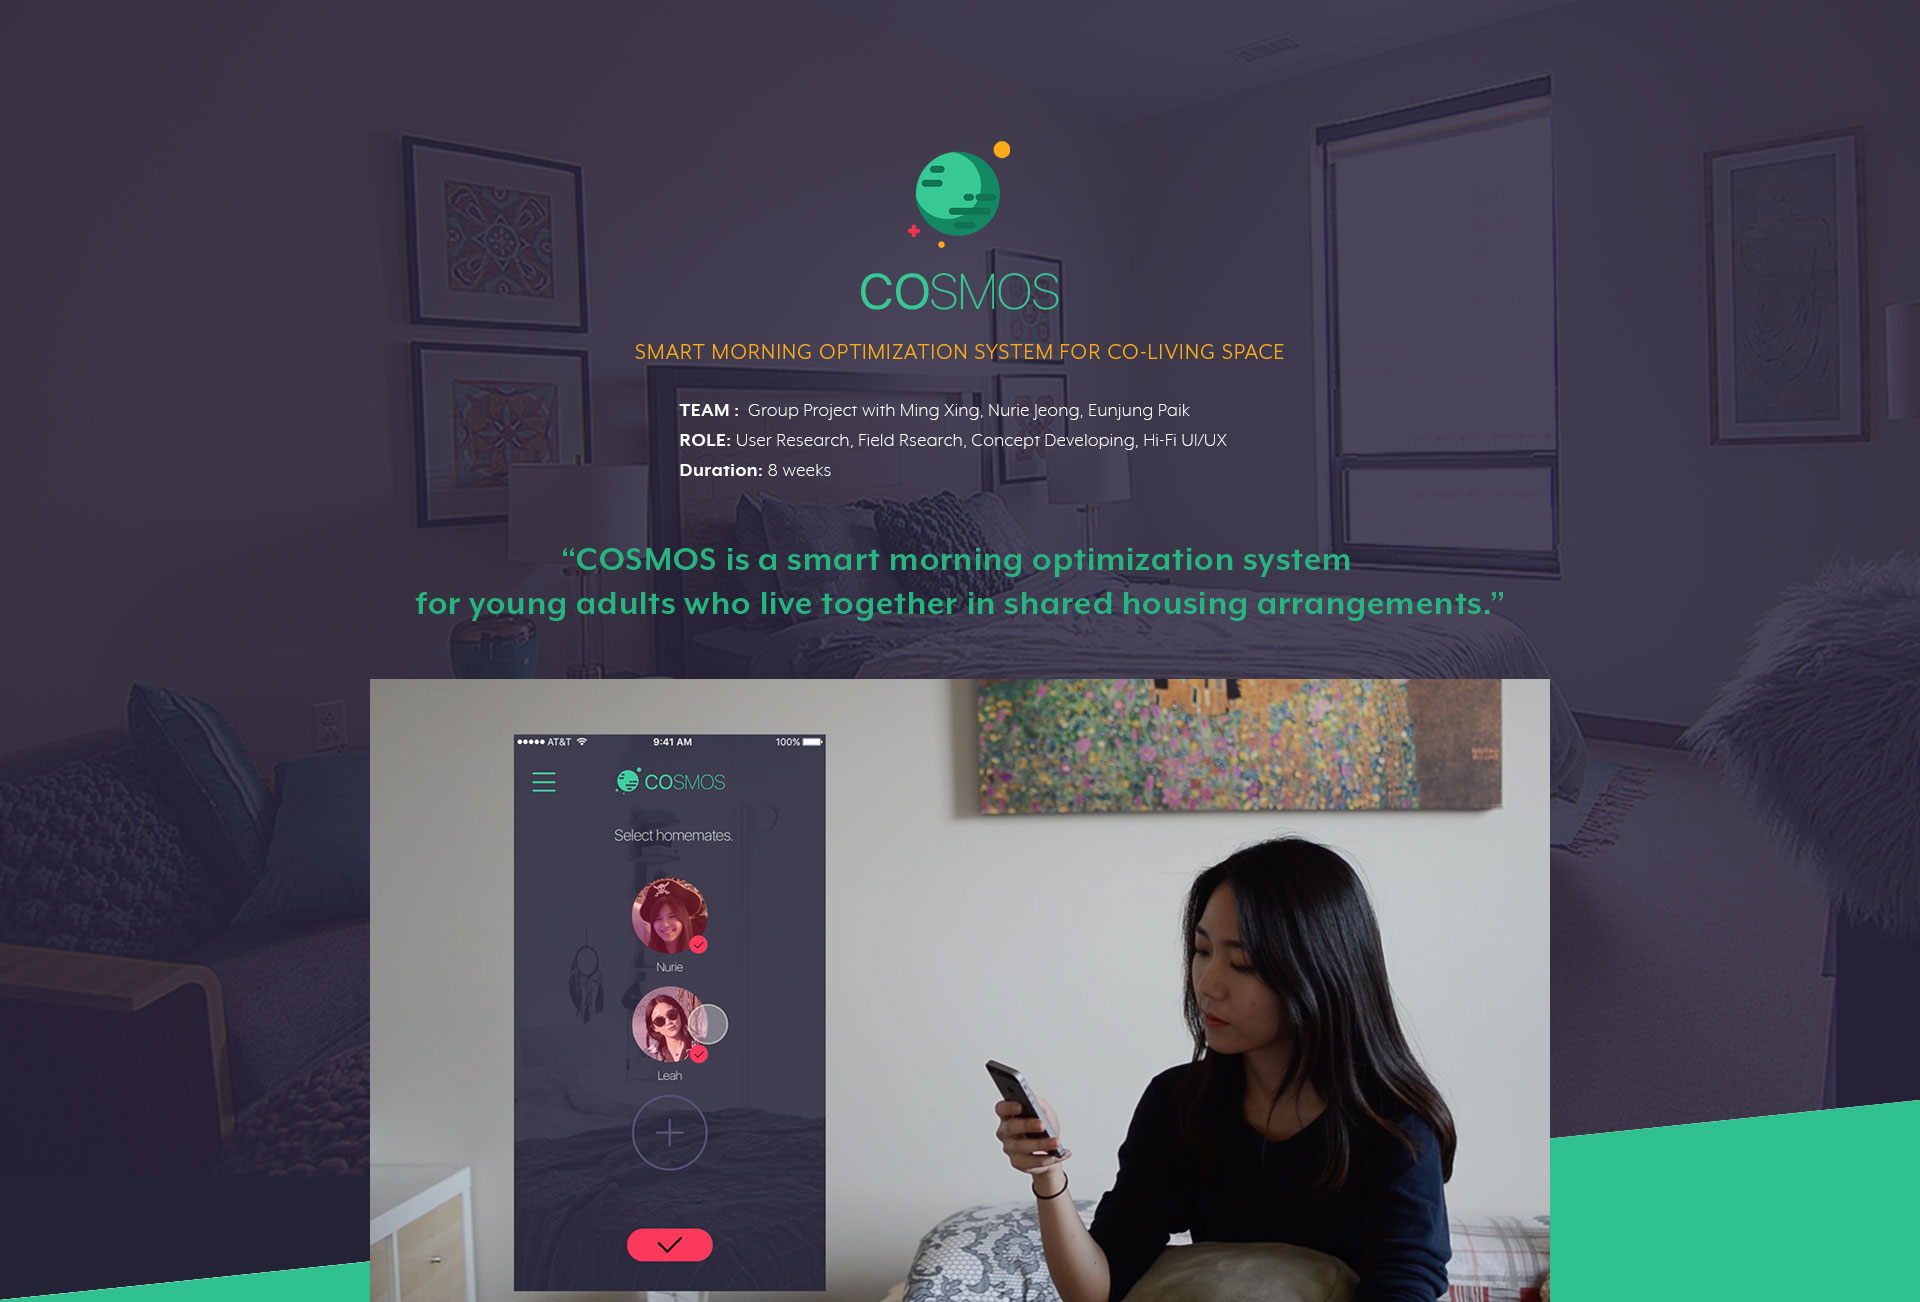
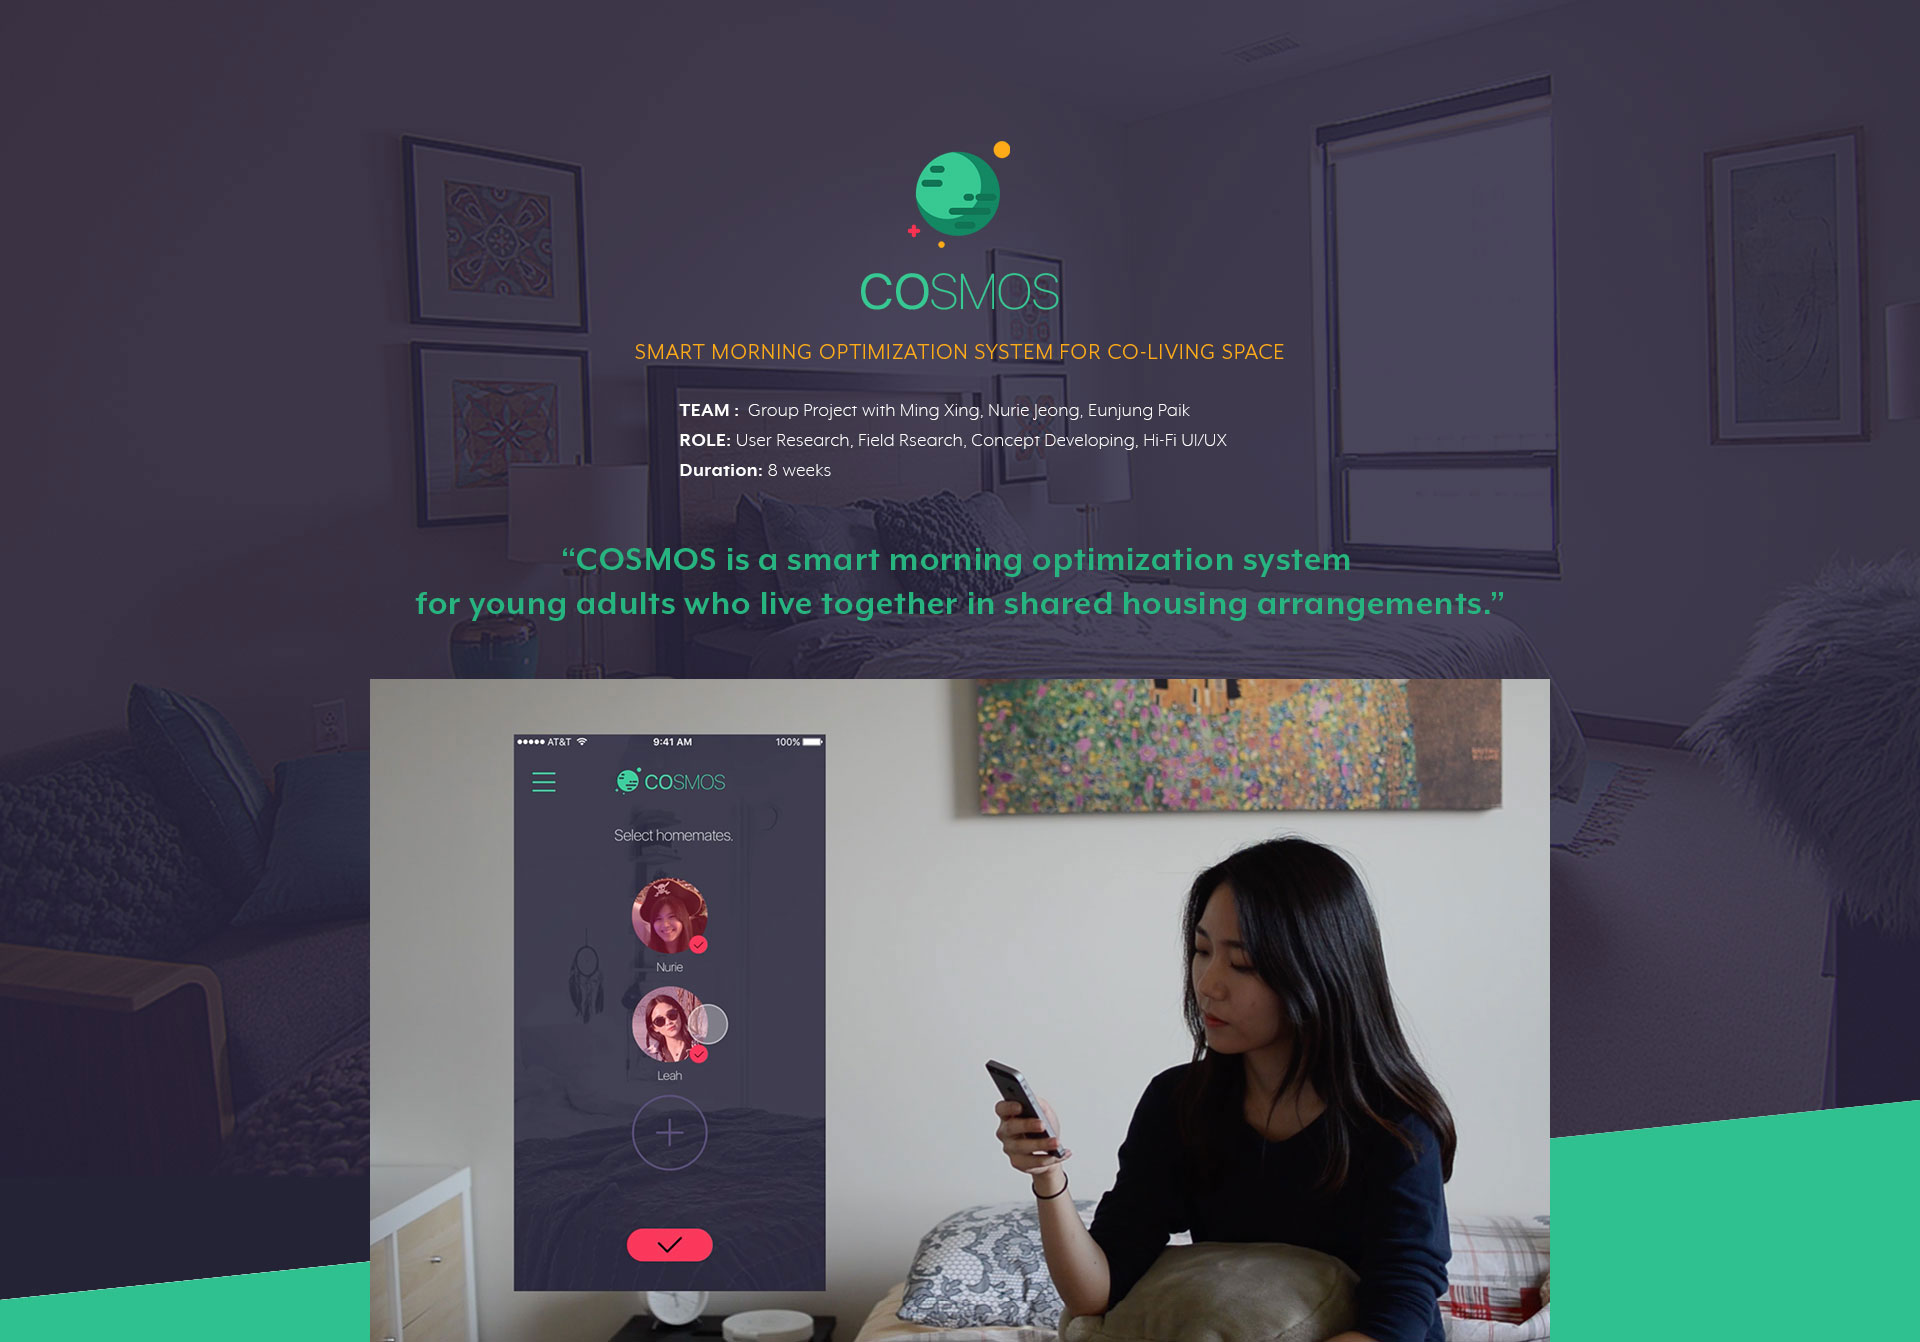
a

diff --git a/cosmos.html b/cosmos.html
@@ -50,12 +50,16 @@
 	<div class="story">
 		<div class="container-fluid">
 			<div class="row">
-				<div class="row">
+				<div class="row" style="position:relative">
 					<div class="col-xs-12 hidden-md hidden-lg">
 						<img src="./assets/images/cob_01.jpg" />
 					</div>
 					<div class="col-lg-12 visible-md visible-lg">
 						<img src="./assets/images/coa_01.jpg" />
+					</div>
+					<div class="videoWrap" style="">
+						<img src="./assets/images/v_holder.png" style="width:100%; opacity:0" alt="">
+						<iframe src="https://player.vimeo.com/video/202668893" frameborder="0" webkitallowfullscreen mozallowfullscreen allowfullscreen></iframe>
 					</div>
 				</div>
 			</div>

diff --git a/css/cosmos.css b/css/cosmos.css
@@ -1,5 +1,7 @@
 body{ background-color:#000;}
 .container-fluid img{ width:100%}
+.videoWrap{ position:absolute; width:83.2%; left:8.4%; bottom:0; background-color:#000;}
+.videoWrap iframe{ position:absolute; left:0; top:0; width:100%; height:100%}
 
 /* bootstrap & media query
 ----------------------------------------------------------------*/
@@ -8,7 +10,8 @@ body{ background-color:#000;}
 }
 
 @media (min-width: 1200px){
+	.videoWrap{ width:63%; left:18.5%;}
 }
 
-@media (min-width: 1600px){	
+@media (min-width: 1600px){
 }
